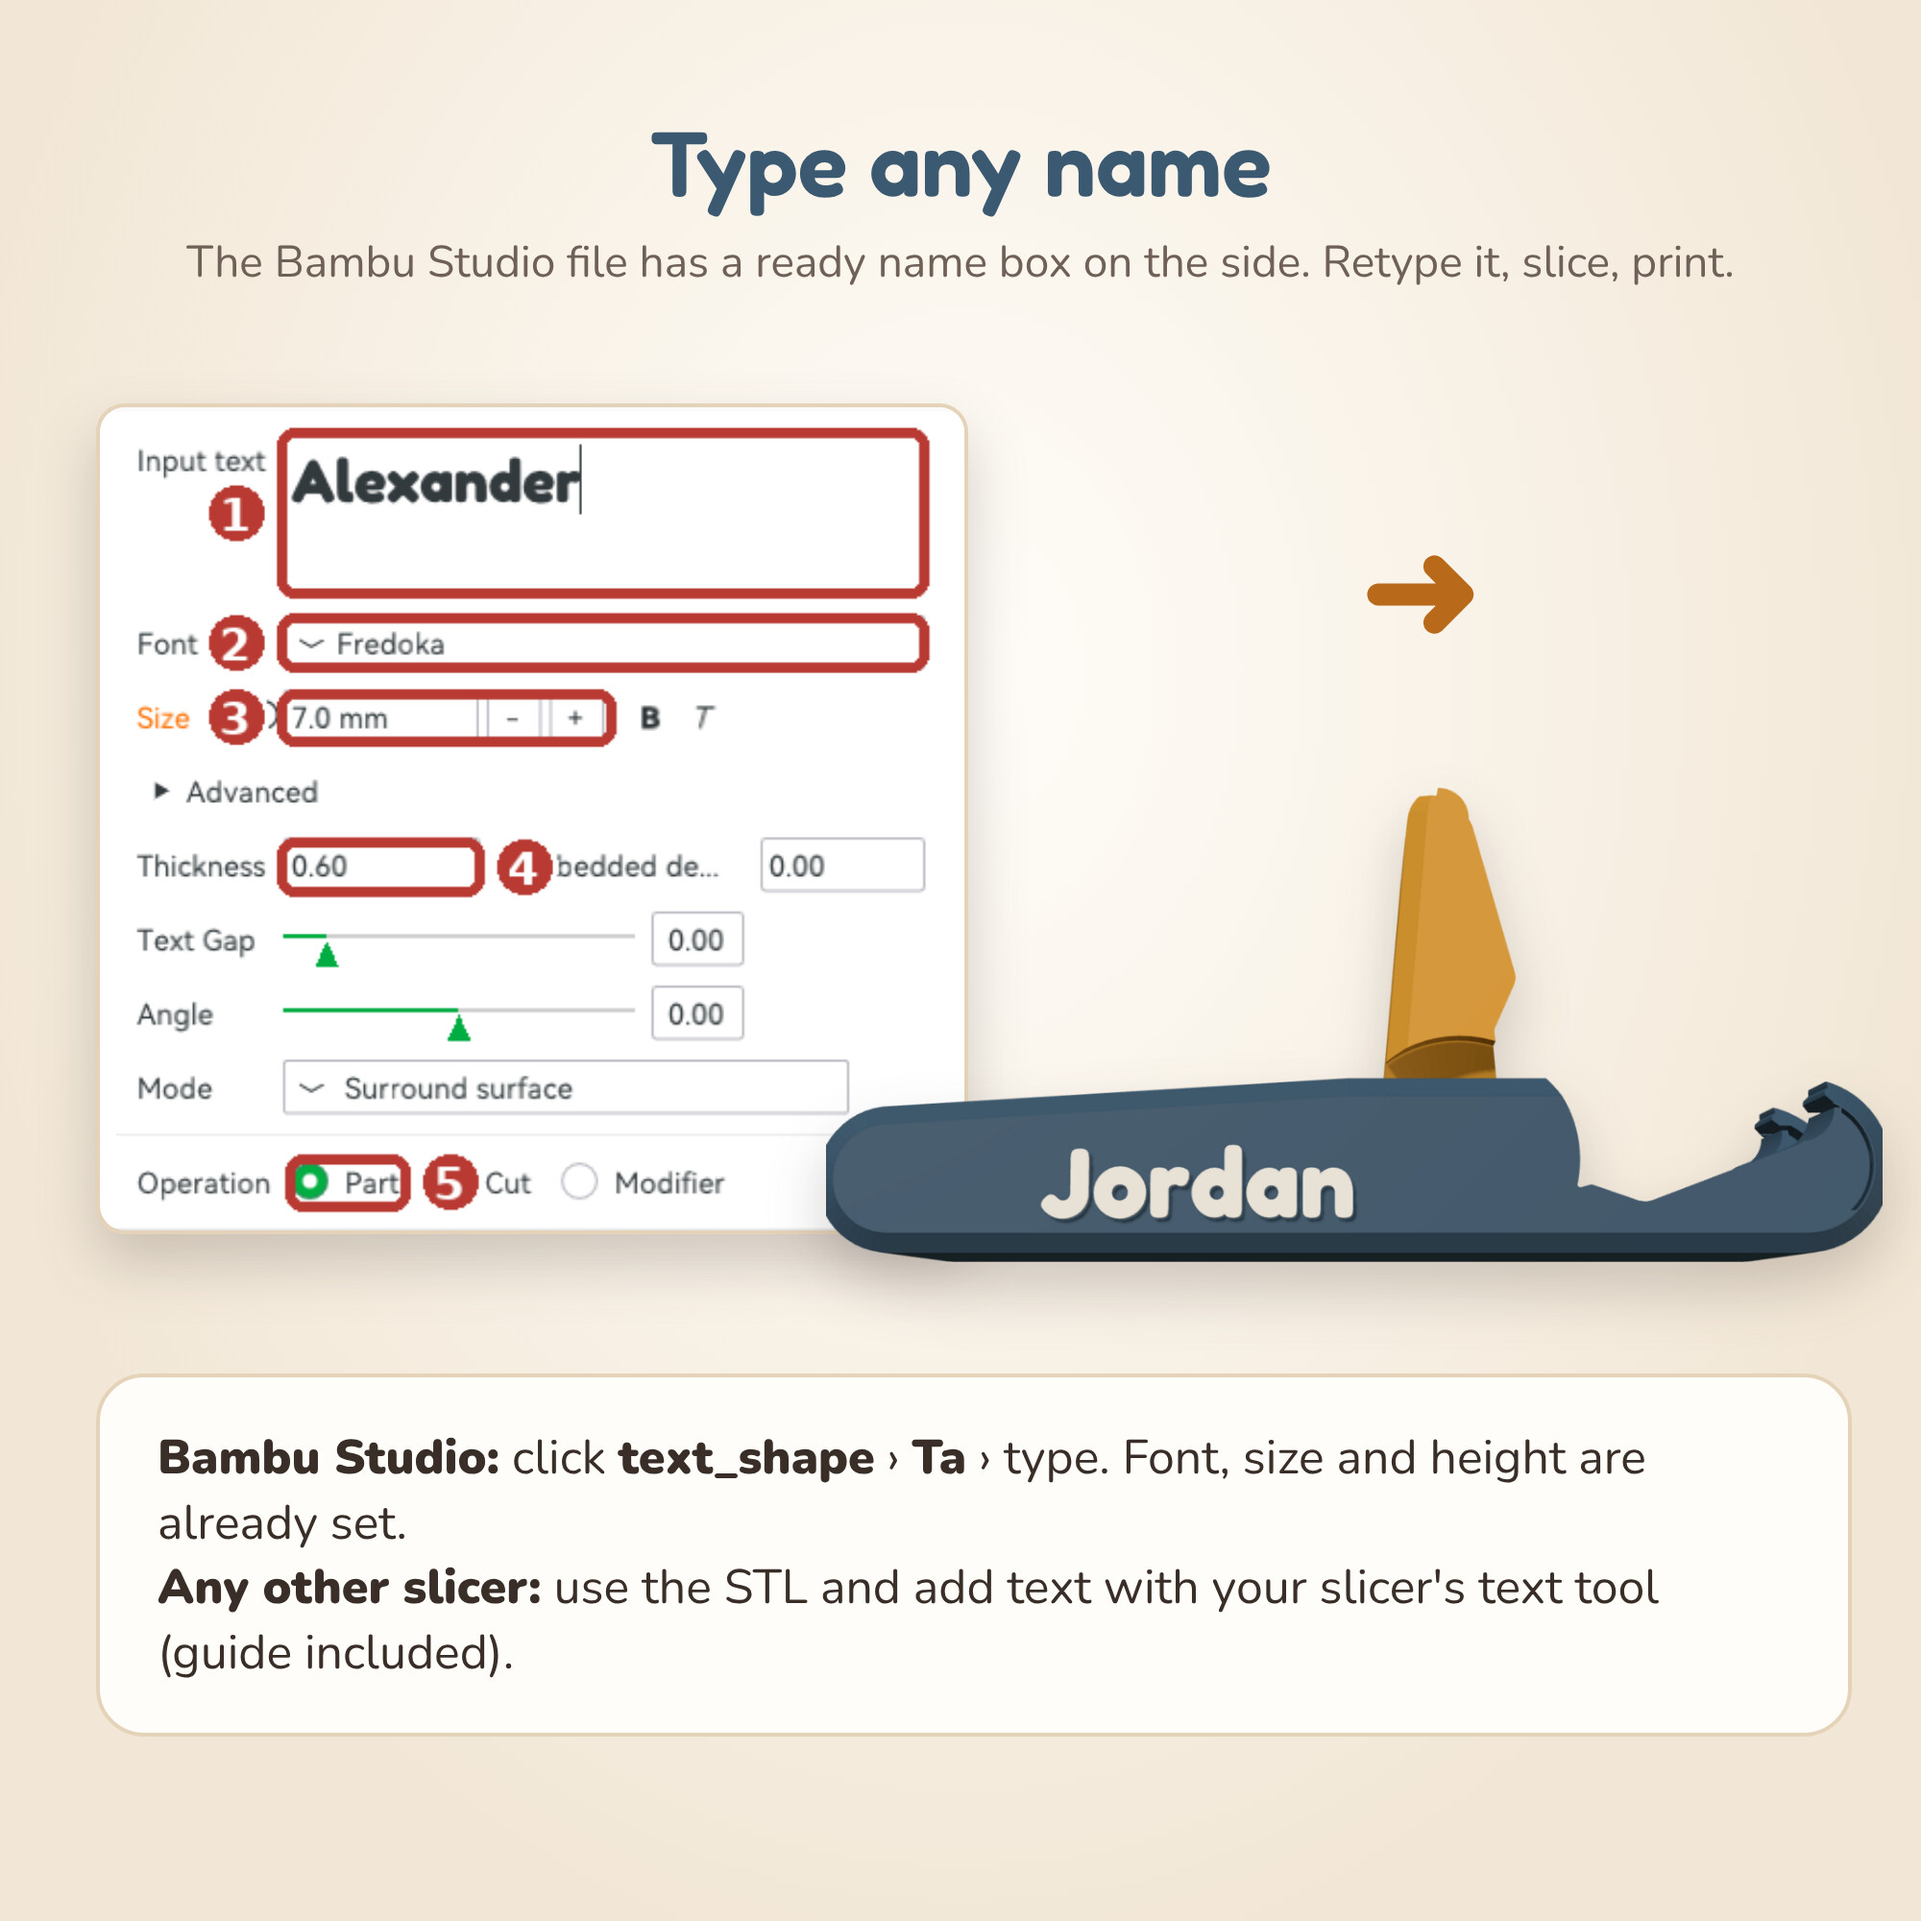
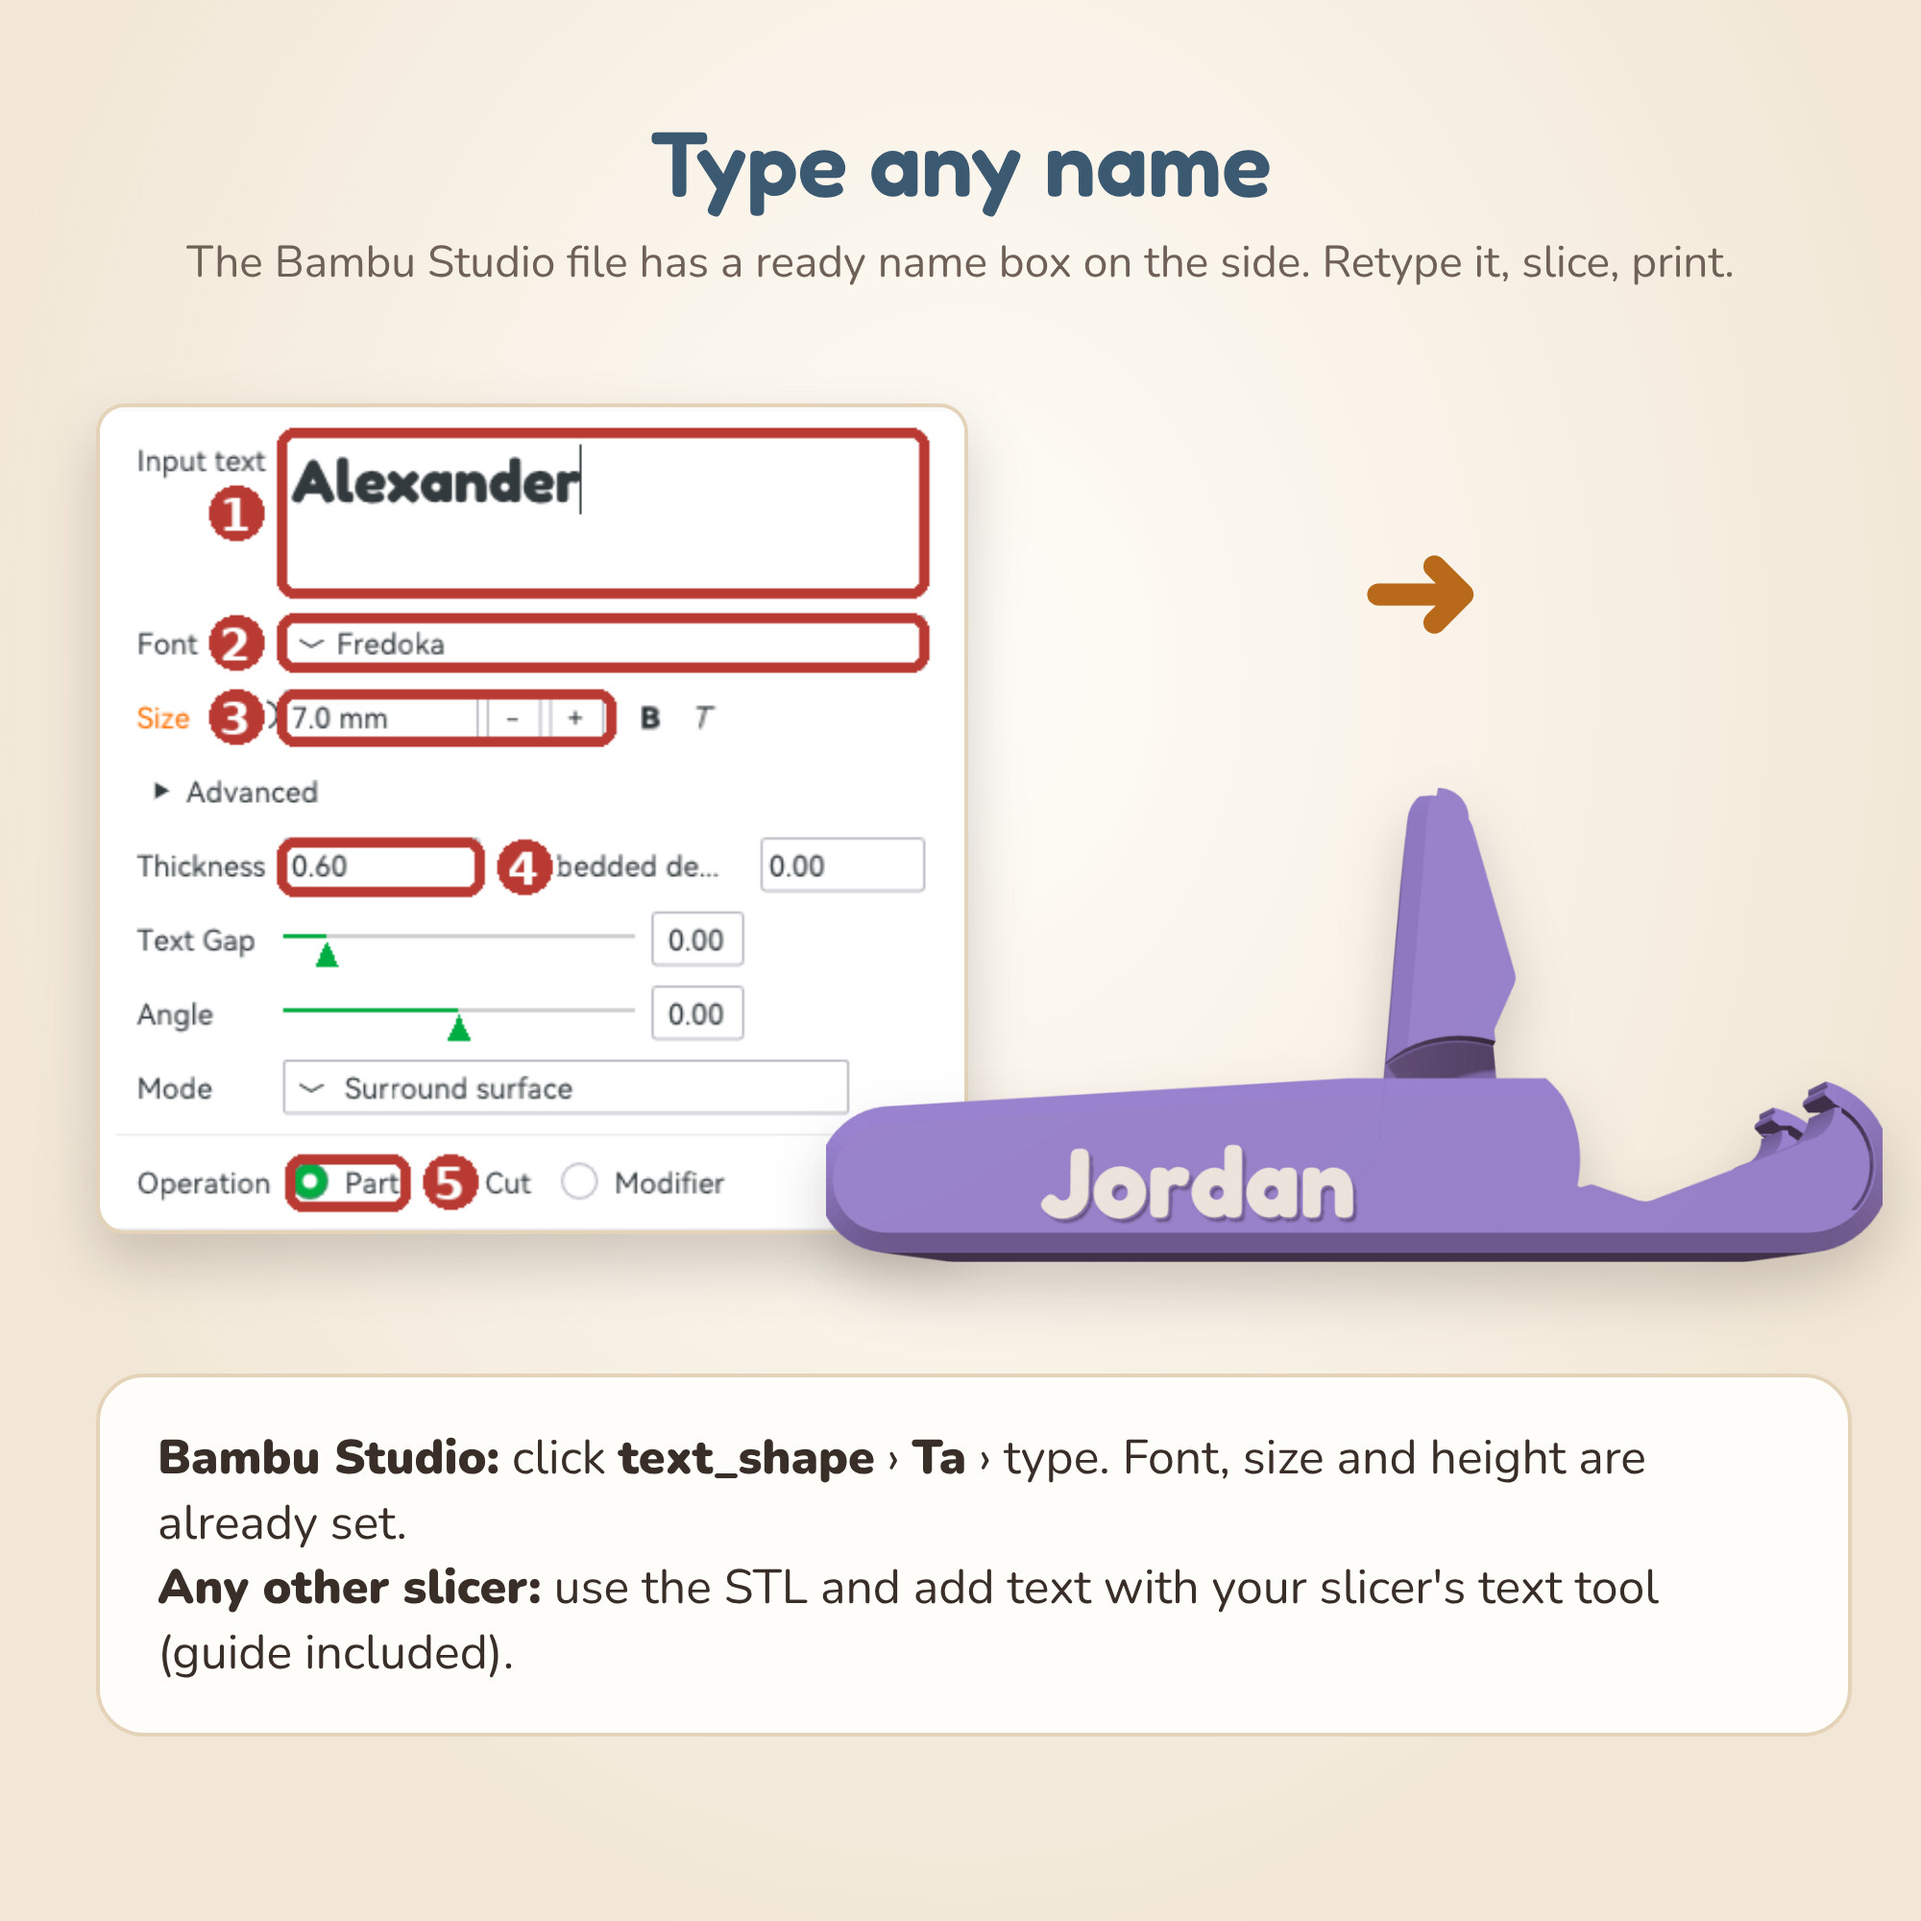
Etsy listing images: one-colour purple renders matching Clark's first print, plus the real print photo
Claude-Session: https://claude.ai/code/session_01SZsc6a9atSqVS1P8u2kLAm

Changed region(s): [[0.403, 0.403, 0.992, 0.682]]

diff --git a/docs/etsy/phone-stand/listing-images/listing.html b/docs/etsy/phone-stand/listing-images/listing.html
@@ -62,4 +62,8 @@ img.r{position:absolute;filter:drop-shadow(0 30px 30px rgba(58,46,40,.22))}
  <b>Fredoka font</b> (free, SIL OFL)</div>
  <div class="card" style="left:150px;top:1560px;width:1700px;background:#F7E6D2;border-color:#B8691A;text-align:center"><b>Digital download.</b> No physical item is shipped.<br>Prints on its side, no supports. Snap-together hinge.</div>
 </section>
+<section class="s" id="i8">
+ <img src="src/real-print.jpg" style="position:absolute;left:0;top:0;width:2000px;height:2000px;object-fit:cover">
+ <div style="position:absolute;left:60px;top:60px" class="pill o">Real print · one colour PLA</div>
+</section>
 </body></html>

diff --git a/docs/etsy/phone-stand/listing-images/listing-seller.html b/docs/etsy/phone-stand/listing-images/listing-seller.html
@@ -69,4 +69,8 @@ img.r{position:absolute;filter:drop-shadow(0 30px 30px rgba(58,46,40,.22))}
  <img class="r" src="src/Small-standing-side.png" style="width:1100px;left:450px;top:1330px">
  <div class="sub" style="position:absolute;bottom:90px;width:100%">One shop per licence · about 18 g of PLA per stand (slicer estimate)</div>
 </section>
+<section class="s" id="i8">
+ <img src="src/real-print.jpg" style="position:absolute;left:0;top:0;width:2000px;height:2000px;object-fit:cover">
+ <div style="position:absolute;left:60px;top:60px" class="pill o">Real print · one colour PLA</div>
+</section>
 </body></html>
